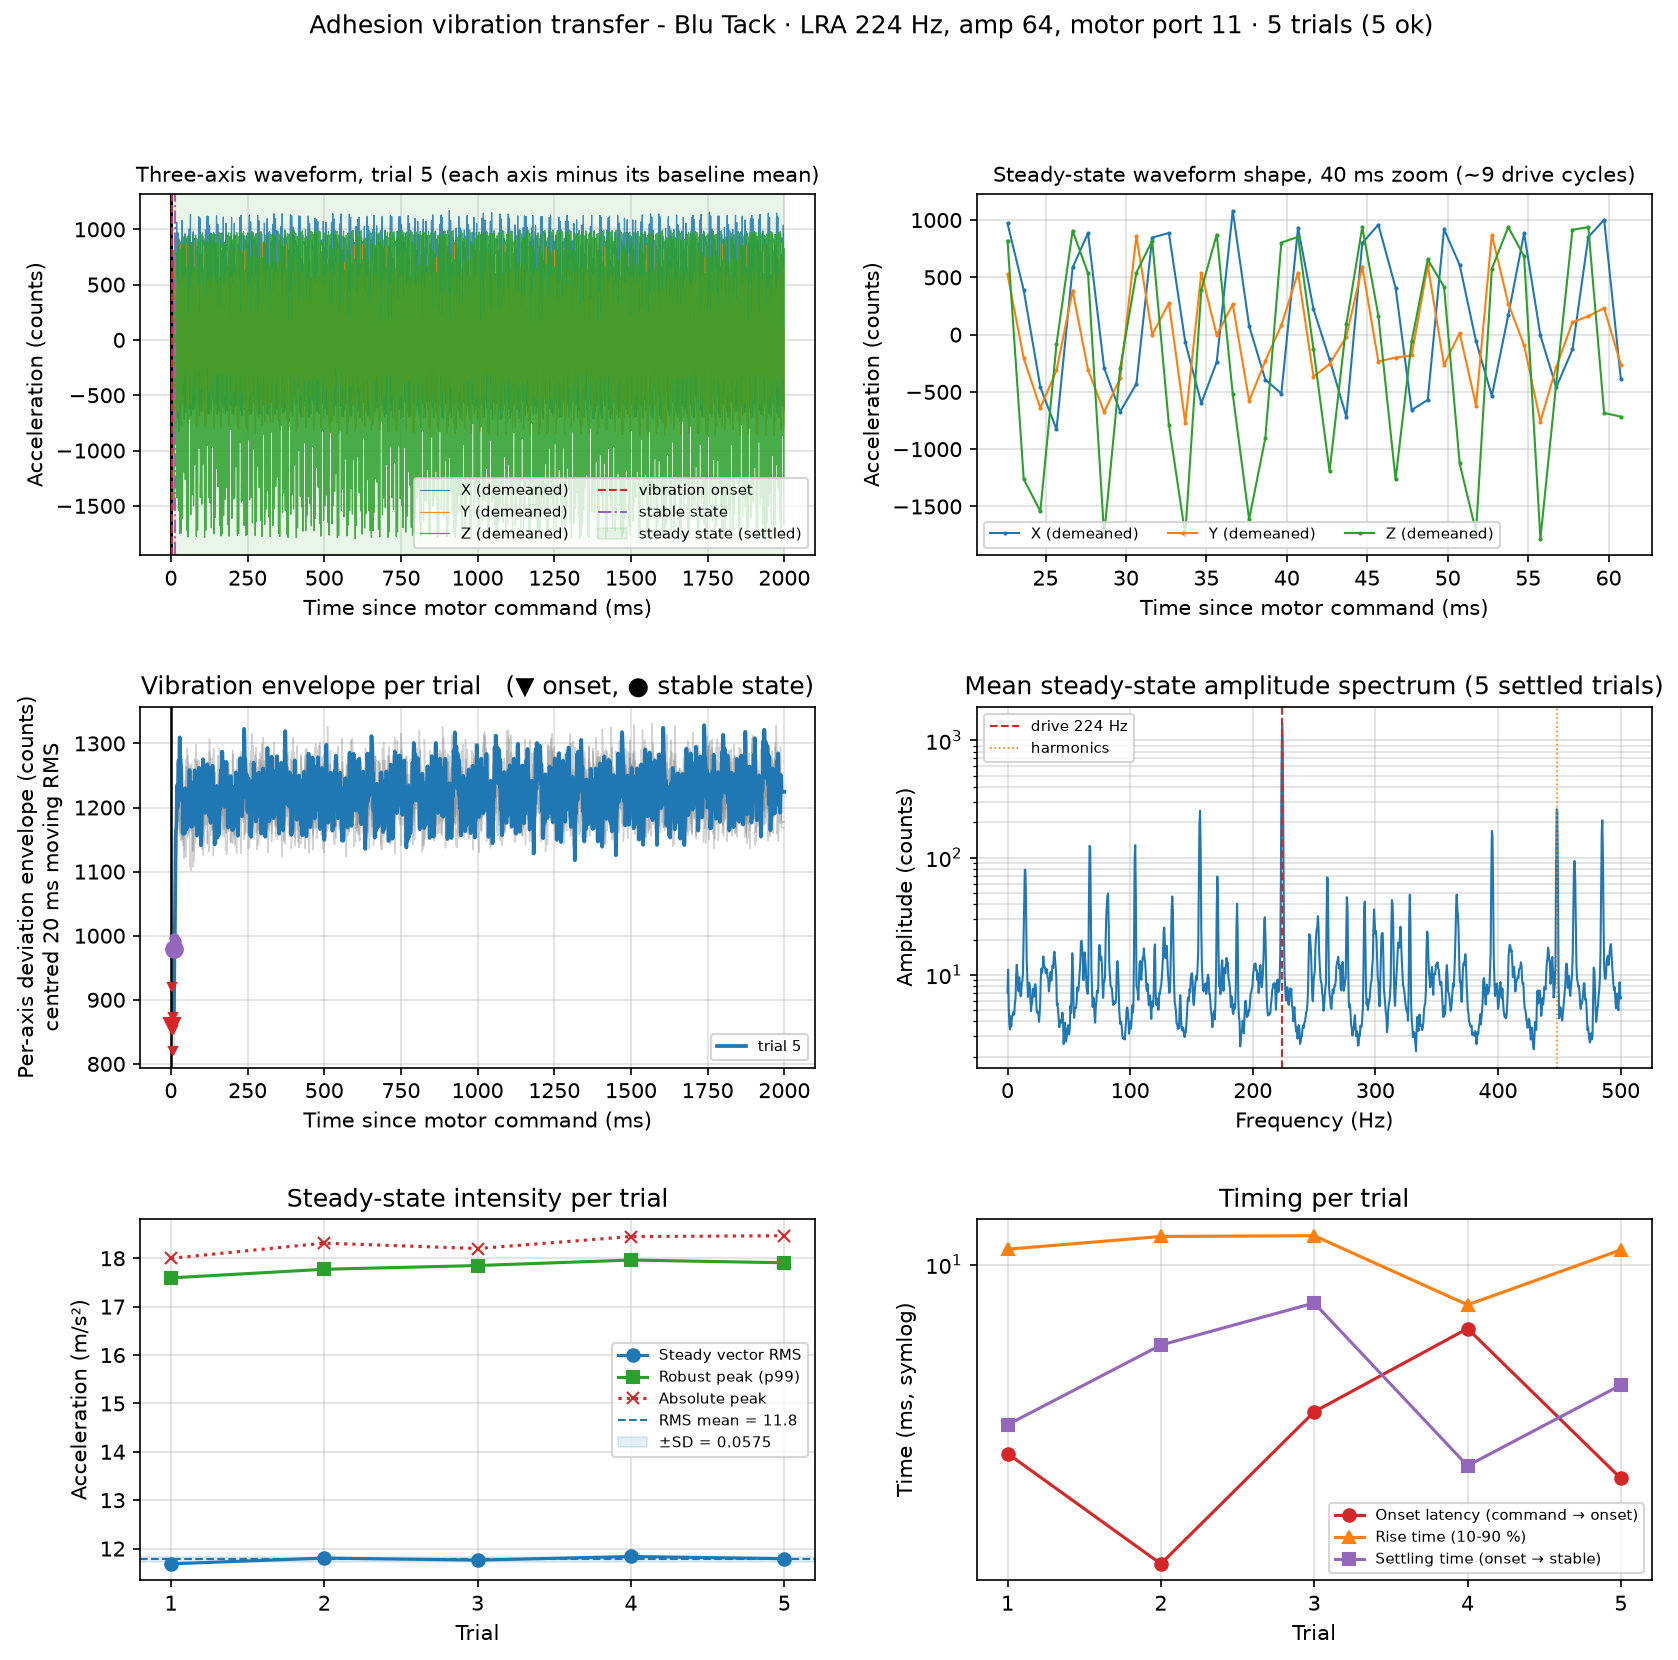
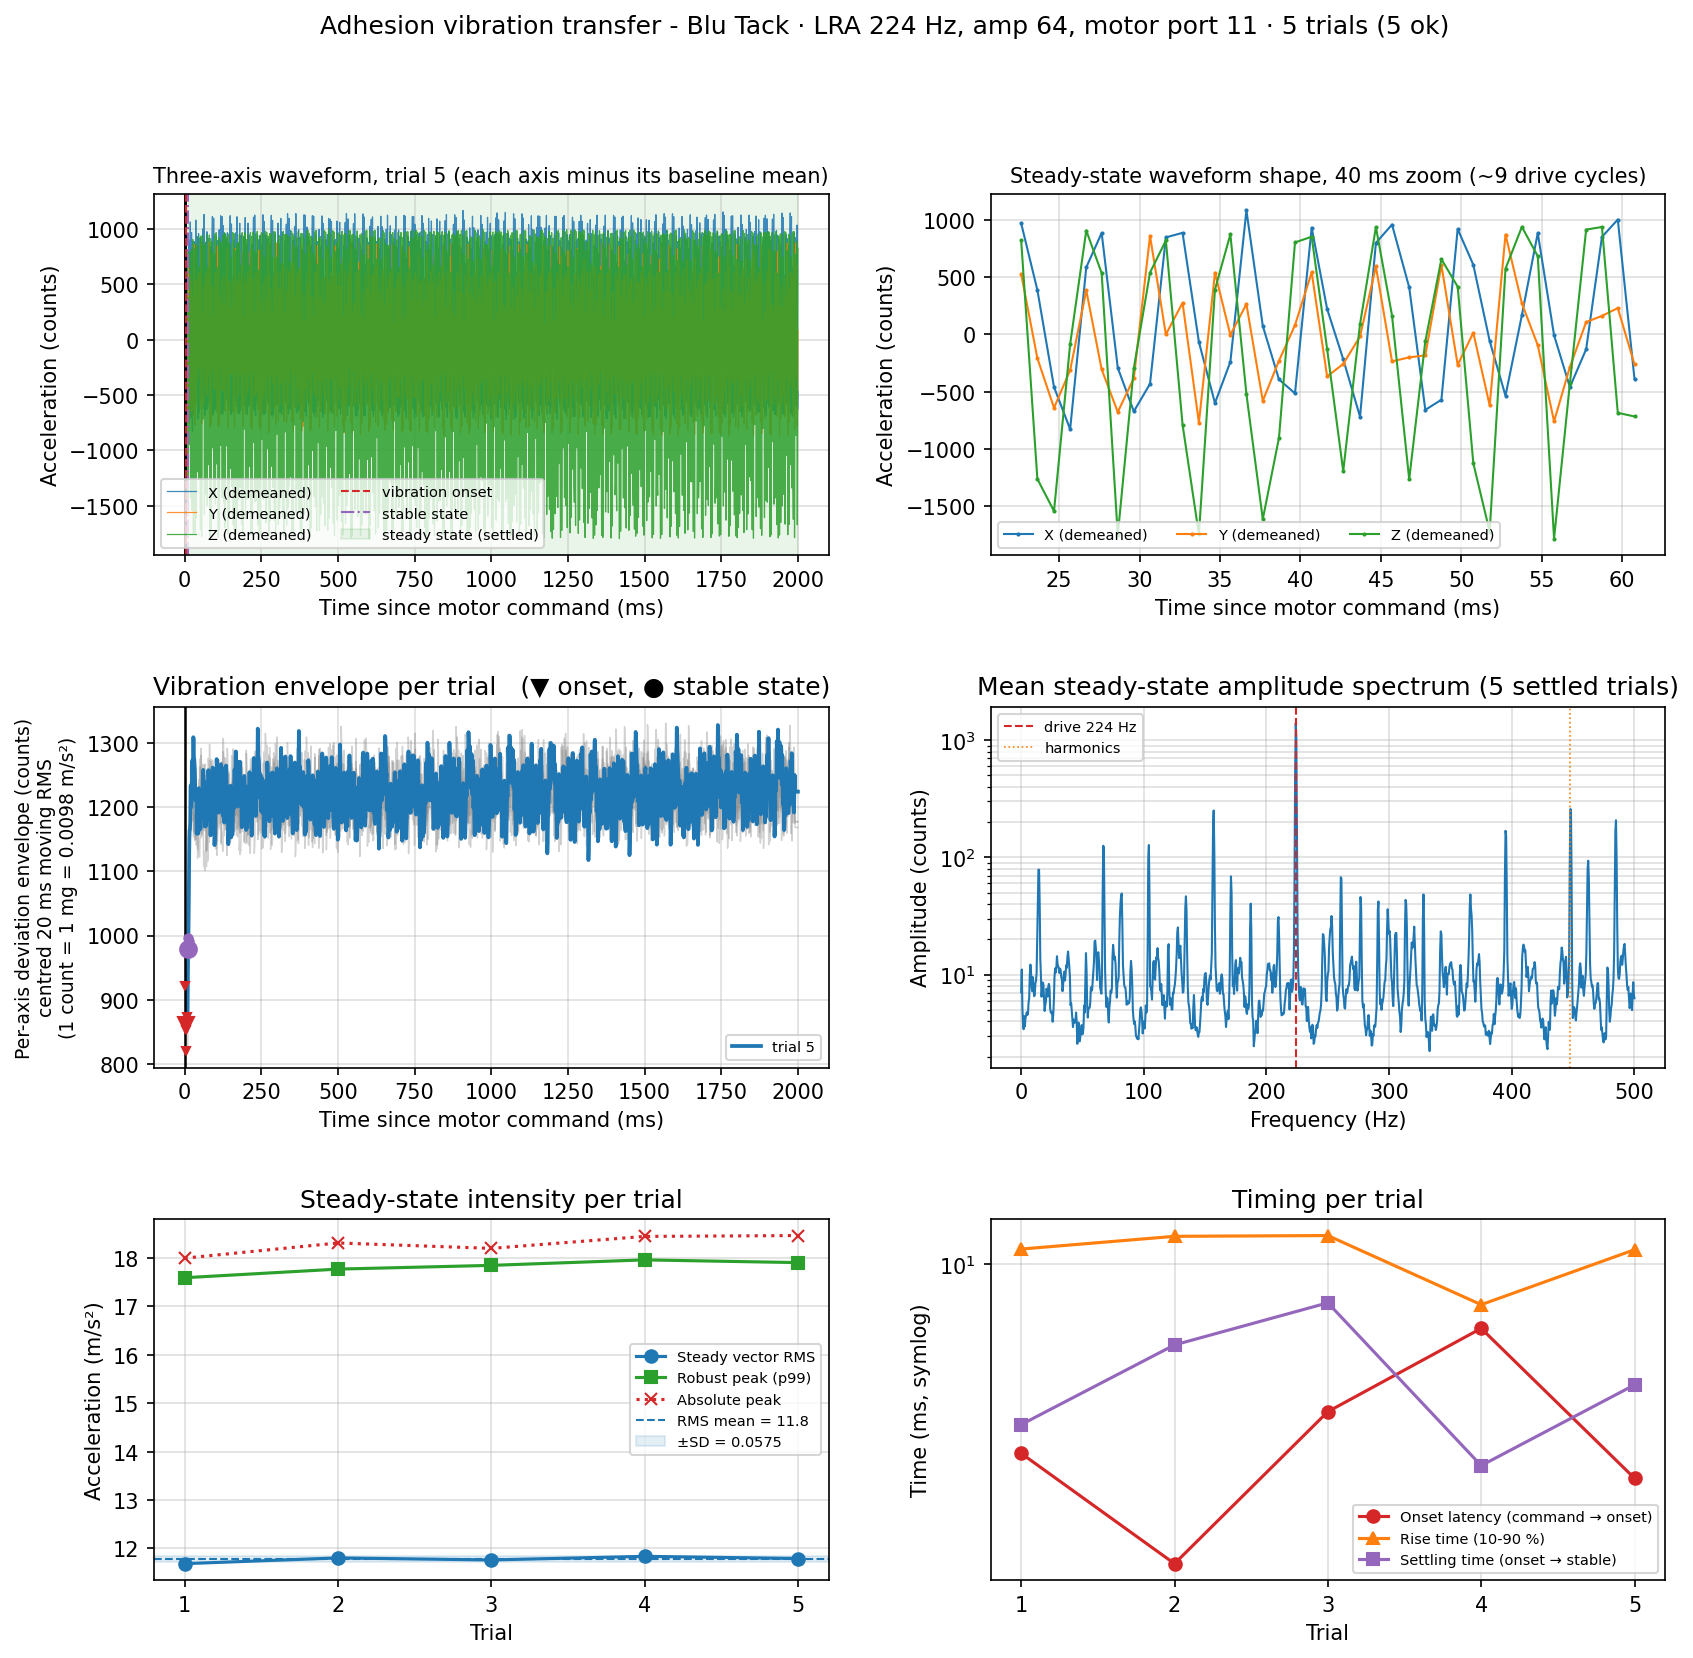
Label the y axis on every vibration envelope panel
The zoom panel of the motor-delay figure shared its row with the
whole-window panel and carried no y label of its own, so the panel is
unreadable once it is cropped out for the write-up - which is exactly
what the actuator and attachment figure does.

Every envelope panel now takes one shared ENVELOPE_AXIS_LABEL that names
the statistic (centred 20 ms moving RMS of the per-axis deviation), its
unit, and what a count is worth in m/s2, so a cropped panel still says
what it plots next to the intensity panels drawn in m/s2. Saved figures
re-rendered in place from their own CSV, meta and raw samples.

diff --git a/main/validation_experiments/motor_acc_delay_experiment/motor_acc_delay.py b/main/validation_experiments/motor_acc_delay_experiment/motor_acc_delay.py
@@ -276,6 +276,16 @@ ONSET_SUSTAIN_FRACTION = 0.40
 # systematic lag that would inflate every settling time.
 ENVELOPE_WINDOW_S = 0.020
 
+#: The y-axis label EVERY envelope panel carries, written out once
+#: here. Single panels get cropped out of these summary figures for
+#: the write-up, so each one has to name its own axis on its own -
+#: including what a count is worth, because the intensity panels
+#: next to them are plotted in m/s².
+ENVELOPE_AXIS_LABEL = (
+    "Per-axis deviation envelope (counts)\n"
+    f"centred {ENVELOPE_WINDOW_S * 1000:.0f} ms moving RMS\n"
+    f"(1 count = 1 mg = {MS2_PER_COUNT:.4f} m/s²)")
+
 # -- steady state --------------------------------------------------------
 # The steady level is the MEDIAN envelope over the last
 # STEADY_REF_FRACTION of the drive window (median, so a late glitch
@@ -1413,9 +1423,11 @@ def save_plot(path: str, results: List[TrialResult], actuator_type: str,
             ax.axhline(threshold_hint, linestyle=":", color="tab:gray",
                        label=f"Detection level ≈ {threshold_hint:.0f}")
     # The detector's own statistic - deliberately not one of the shared
-    # windowed intensity metrics (see the module docstring).
-    ax4.set_ylabel(f"Per-axis deviation envelope (counts)\n"
-                   f"centred {ENVELOPE_WINDOW_S * 1000:.0f} ms moving RMS")
+    # windowed intensity metrics (see the module docstring). BOTH
+    # panels are labelled: the zoom is the one the write-up crops
+    # out, and a cropped panel keeps only its own axis labels.
+    for ax in (ax4, ax5):
+        ax.set_ylabel(ENVELOPE_AXIS_LABEL, fontsize=9)
     if any_trace or threshold_hint is not None:
         ax4.legend(fontsize=6, loc="upper left")
         ax5.legend(fontsize=6, loc="lower right")

diff --git a/main/validation_experiments/adhesion_vibration_comparison/adhesion_comparison.py b/main/validation_experiments/adhesion_vibration_comparison/adhesion_comparison.py
@@ -757,7 +757,9 @@ def save_waveform_figure(path: str, groups: Dict[str, MethodGroup],
     for ax in (ax_full, ax_rise):
         ax.axvline(0.0, color="black", linewidth=1.0)
         ax.set_xlabel(f"Time since {align_label} (ms)")
-        ax.set_ylabel("Envelope (counts)")
+        # Same statistic, same words as the delay experiment - and
+        # spelled out, because the rise panel is cropped out on its own.
+        ax.set_ylabel(mad.ENVELOPE_AXIS_LABEL, fontsize=9)
         ax.grid(True, alpha=0.4)
         ax.legend(fontsize=7)
     ax_full.set_title(f"Mean vibration envelope, aligned at {align_label}\n"

diff --git a/main/validation_experiments/adhesion_vibration_comparison/adhesion_vibration.py b/main/validation_experiments/adhesion_vibration_comparison/adhesion_vibration.py
@@ -1290,8 +1290,7 @@ def save_plot(path: str, results: List[AdhesionTrialResult],
     ax2.set_title("Vibration envelope per trial   (▼ onset, ● stable state)"
                   if drew else "Vibration envelope (no per-sample data)")
     ax2.set_xlabel("Time since motor command (ms)")
-    ax2.set_ylabel(f"Per-axis deviation envelope (counts)\n"
-                   f"centred {mad.ENVELOPE_WINDOW_S * 1000:.0f} ms moving RMS")
+    ax2.set_ylabel(mad.ENVELOPE_AXIS_LABEL, fontsize=9)
     ax2.grid(True, alpha=0.4)
     if drew:
         ax2.legend(fontsize=7)
